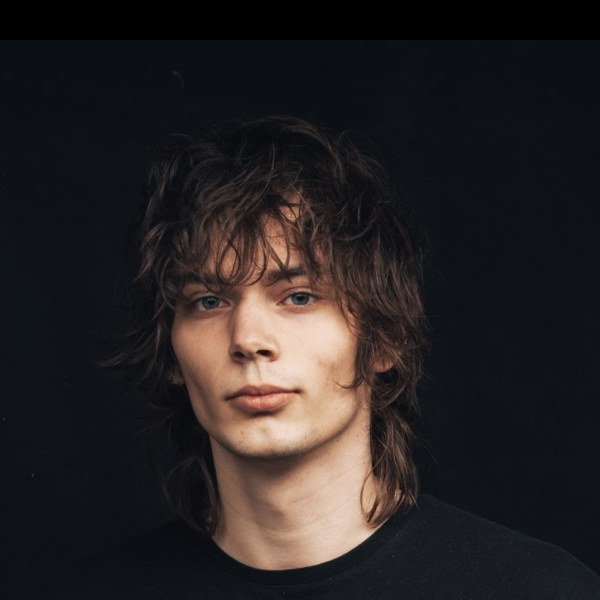
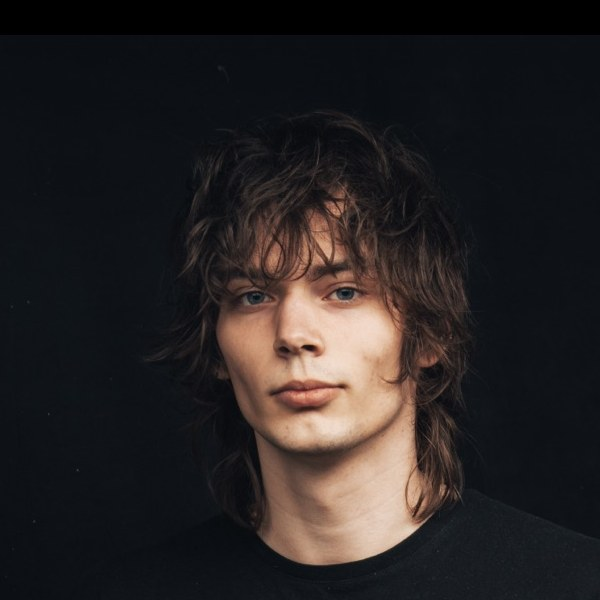
Donauries-Pitch: Avatare ohne Rand, Kai mit weißem Hintergrund, Cedric zentriert

diff --git a/src/slides/donauries-social/slides.tsx b/src/slides/donauries-social/slides.tsx
@@ -262,7 +262,7 @@ export const TeamSlide: React.FC = () => (
                 key={src}
                 src={src}
                 alt=""
-                style={{ width: 220, height: 220, borderRadius: '50%', objectFit: 'cover', border: '6px solid #FFFFFF', marginLeft: j > 0 ? -28 : 0 }}
+                style={{ width: 220, height: 220, borderRadius: '50%', objectFit: 'cover', marginLeft: j > 0 ? -20 : 0 }}
               />
             ))}
           </div>
